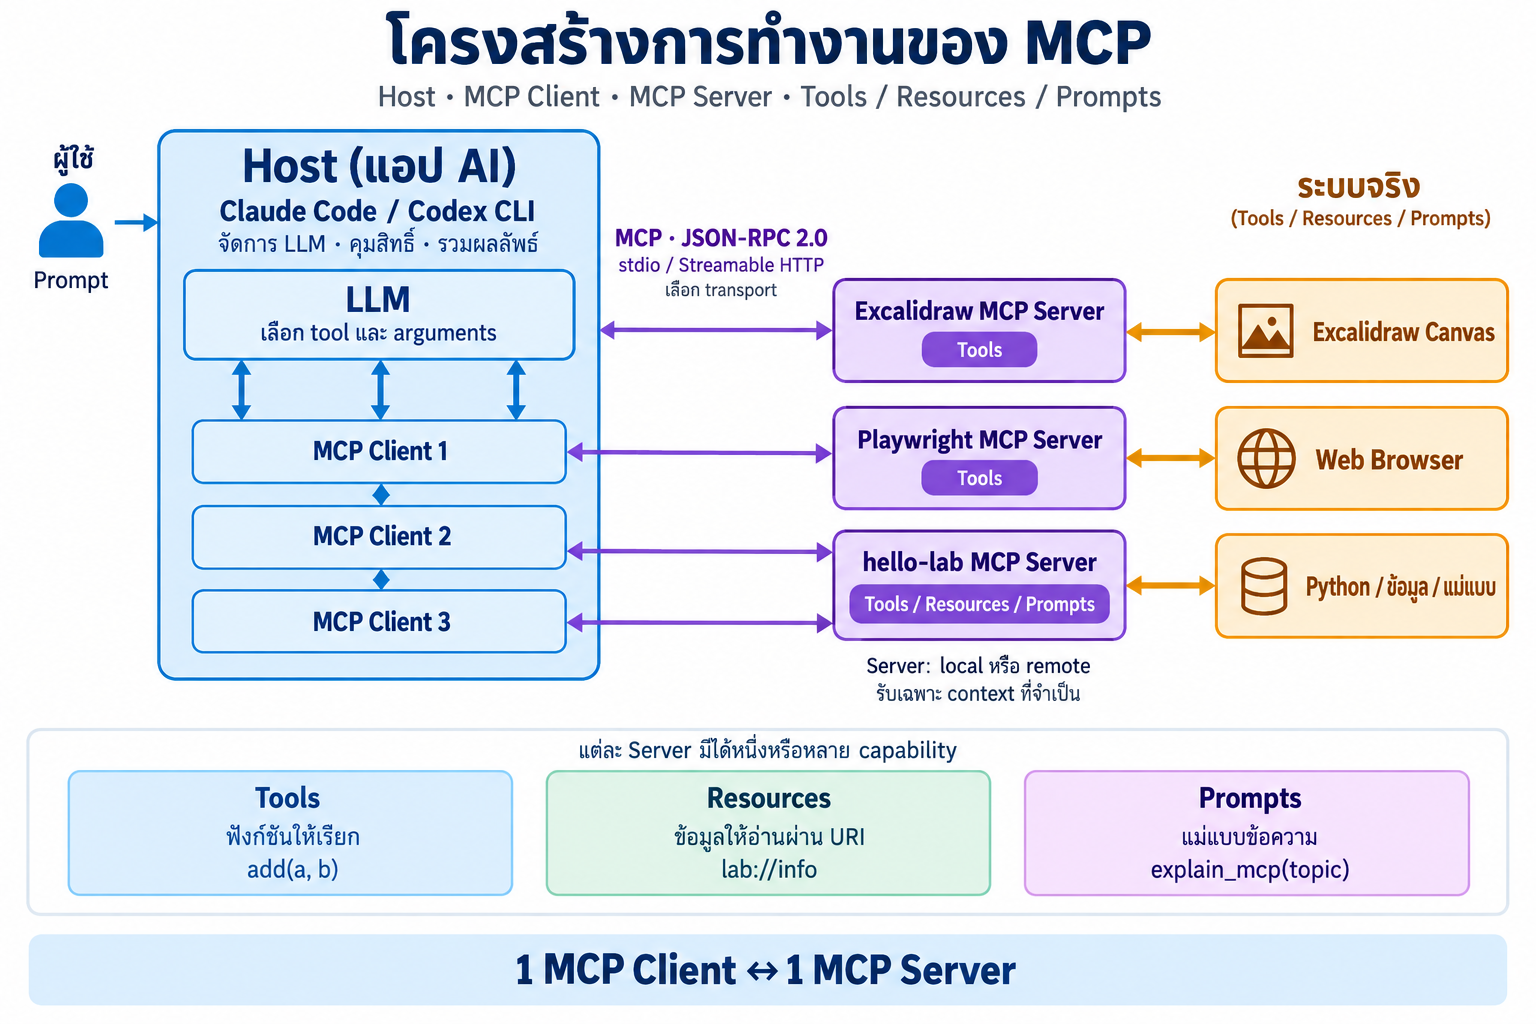
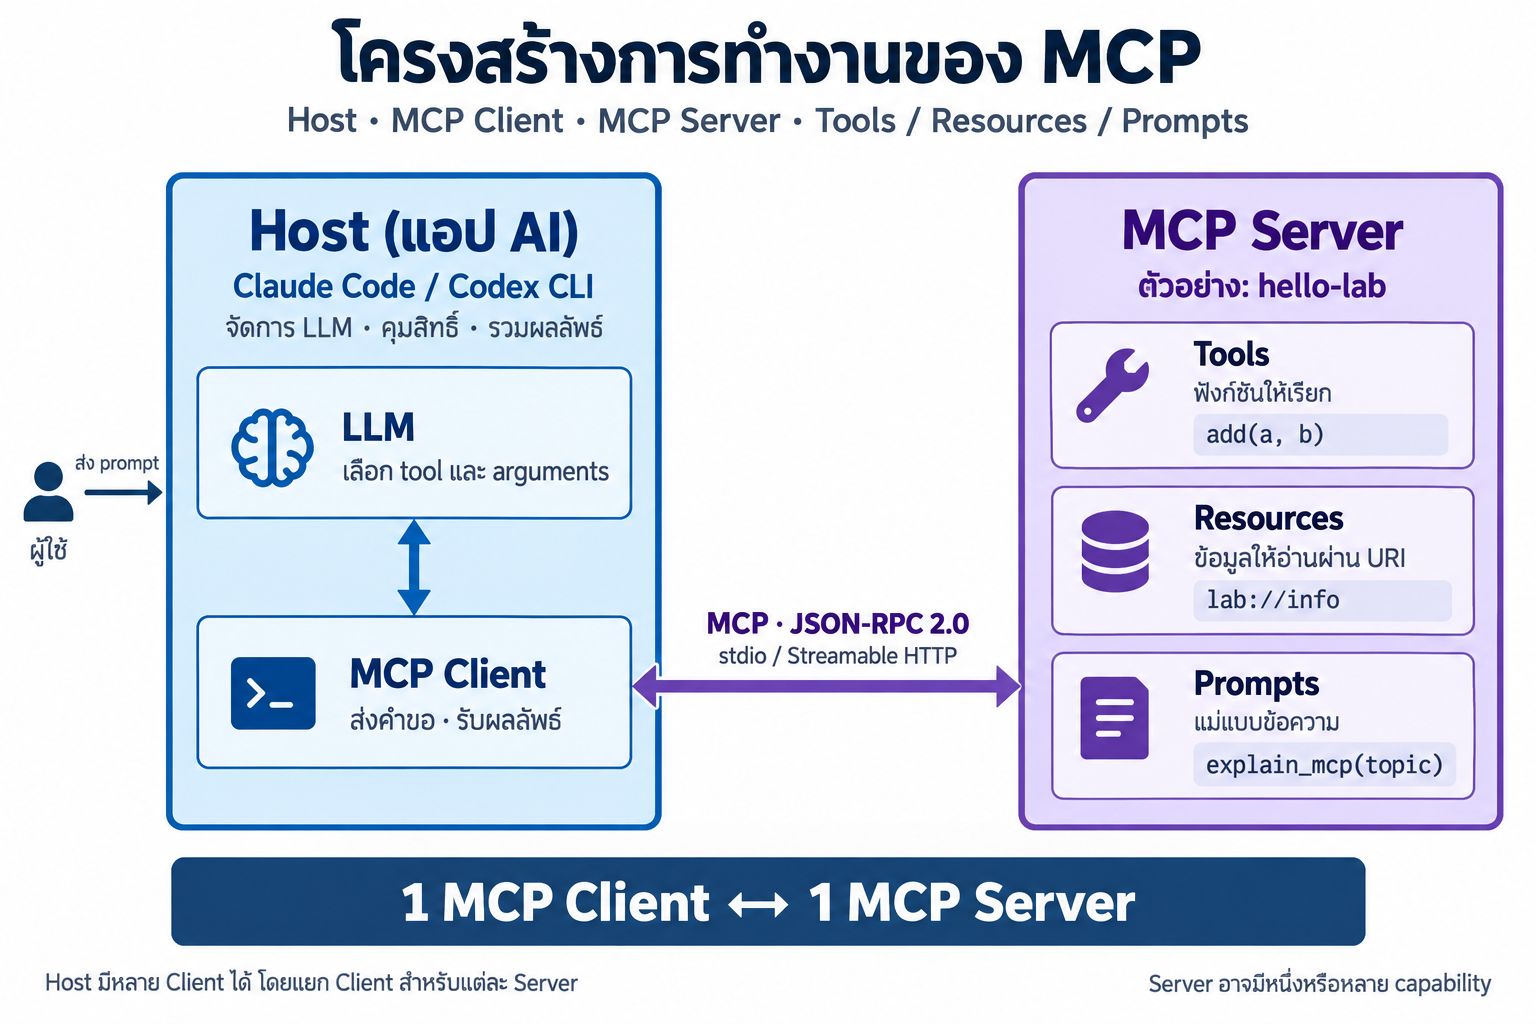
1

diff --git a/01_Multi_Account/001_LAB_Setup_Multi_Account/README.md b/01_Multi_Account/001_LAB_Setup_Multi_Account/README.md
@@ -19,7 +19,7 @@
 ## ขั้นที่ 1 · เตรียมเครื่องมือ (🖥 Terminal + 💬 AI | ~15 นาที)
 
 ### 🎯 เป้าหมายของขั้นนี้
-มี Claude Code เป็น “AI ตัวช่วยตั้งค่า” บนเครื่อง Ubuntu โดยเริ่มจากติดตั้ง Claude Code เพียงตัวเดียว
+ติดตั้ง Claude Code และ Codex CLI บนเครื่อง Ubuntu ให้เรียกดูเวอร์ชันได้ทั้งสองเครื่องมือ แล้วเปิด Claude Code เป็น “AI ตัวช่วยตั้งค่า” สำหรับขั้นที่ 2
 
 ### 1.1 ตรวจว่ามี Claude Code อยู่แล้วหรือไม่ (🖥 Terminal)
 
@@ -27,7 +27,7 @@
 claude --version
 ```
 
-- ได้ตัวเลขเวอร์ชัน → ข้ามไป 1.4
+- ได้ตัวเลขเวอร์ชัน → ข้ามไป 1.3
 - ได้ `command not found` → ทำ 1.2
 
 ### 1.2 ติดตั้ง Claude Code (🖥 Terminal)
@@ -50,7 +50,36 @@ claude --version
 
 ![ผลคำสั่ง claude --version จริงในคอนเทนเนอร์](img/terminal-claude-version.png)
 
-เห็นเลขเวอร์ชันแล้วไปหัวข้อ 1.4 ได้เลย ตัวเลขอาจต่างจากภาพ
+เห็นเลขเวอร์ชันแล้วไปหัวข้อ 1.3 ได้เลย ตัวเลขอาจต่างจากภาพ
+
+### 1.3 ตรวจและติดตั้ง Codex CLI (🖥 Terminal)
+
+**ตรวจว่ามี Codex CLI อยู่แล้วหรือไม่** — พิมพ์คำสั่งนี้ใน Terminal
+
+```bash
+codex --version
+```
+
+- ได้ `codex-cli` ตามด้วยเลขเวอร์ชัน → ข้ามไป 1.4
+- ได้ `command not found` → ติดตั้งด้วยคำสั่งด้านล่าง
+
+**ติดตั้ง Codex CLI** — ใช้ตัวติดตั้งสำหรับ Linux ตาม [เอกสารทางการของ OpenAI](https://learn.chatgpt.com/docs/codex/cli)
+
+```bash
+curl -fsSL https://chatgpt.com/codex/install.sh | sh
+```
+
+รอจนติดตั้งเสร็จ หากตัวติดตั้งแสดงขั้นตอนเพิ่มตำแหน่งโปรแกรมใน `PATH` ให้ทำตามข้อความนั้น แล้วเปิด Terminal ใหม่
+
+**ตรวจเวอร์ชันหลังติดตั้ง**
+
+```bash
+codex --version
+```
+
+ควรเห็น `codex-cli` ตามด้วยเลขเวอร์ชัน เช่น `codex-cli 0.155.1` ตัวเลขอาจต่างจากตัวอย่าง หากยังขึ้น `command not found` ให้ตรวจข้อความเรื่อง `PATH` จากตัวติดตั้งและลองอีกครั้งก่อนทำขั้นถัดไป
+
+ตอนนี้ยังไม่ต้องล็อกอิน Codex ให้ไปหัวข้อ 1.4 เพื่อเปิด Claude Code ตั้งค่าหลายบัญชีในขั้นที่ 2 แล้วจึงล็อกอิน Codex ผ่าน `cyolo1` ในขั้นที่ 3 ส่วน B
 
 ### 1.4 เปิดและล็อกอิน Claude Code เพื่อเตรียมทำขั้นที่ 2
 
@@ -63,26 +92,27 @@ claude --version
 2. ล็อกอินด้วยบัญชีของตัวเองตามคำแนะนำบนหน้าจอ หากยังไม่ได้ล็อกอิน ให้พิมพ์ `/login` ในช่องสนทนา Claude Code แล้วทำตามขั้นตอน
 3. เมื่อพร้อมใช้งาน ให้เปิด Claude Code ค้างไว้ แล้วไปขั้นที่ 2 เพื่อคัดลอกพรอมต์ทั้งกรอบมาวางใน 💬 ช่องสนทนา Claude Code
 
-ขั้นนี้ติดตั้งเฉพาะ Claude Code เพื่อใช้เป็น AI ตัวช่วยตั้งค่าก่อน ส่วนการติดตั้งเครื่องมือที่ยังขาดและตั้งค่าหลายบัญชีของทั้ง Claude Code และ Codex CLI จะให้ AI ดำเนินการในขั้นที่ 2
+เมื่อจบขั้นนี้ ทั้ง Claude Code และ Codex CLI ต้องเรียกดูเวอร์ชันได้ โดยเปิดและล็อกอิน Claude Code ไว้เป็น AI ตัวช่วย ส่วนการสร้างคำสั่งแยกบัญชีของทั้งสองเครื่องมือจะให้ AI ดำเนินการในขั้นที่ 2
 
 ### ✅ Expected Output (ตัวอย่างสำหรับเทียบ — ไม่ใช่ผลการรันจริง)
 | CHECK | ACTUAL EXAMPLE |
 |---|---|
 | `claude --version` | `2.1.258 (Claude Code)` |
+| `codex --version` | `codex-cli 0.155.1` |
 | AI ตัวช่วยตั้งค่า | เปิด Claude Code และล็อกอินพร้อมใช้งานแล้ว |
-- **ต้องตรง:** (1) มีเวอร์ชัน Claude Code (2) เปิด AI ตัวช่วยได้
+- **ต้องตรง:** (1) มีเวอร์ชันทั้ง Claude Code และ Codex CLI (2) เปิด AI ตัวช่วยได้
 - **ต่างได้:** ตัวเลขเวอร์ชัน
 
 ## ขั้นที่ 2 · ให้ Claude Code ตั้งค่าหลายบัญชี (~20 นาที)
 
-ให้ Claude Code ติดตั้งเครื่องมือที่ยังขาดและสร้างคำสั่ง `yolo1`–`yolo5` กับ `cyolo1`–`cyolo5` สำหรับใช้งานหลายบัญชี โดยแยกข้อมูลแต่ละบัญชีและยังไม่ล็อกอินบัญชีเหล่านี้
+ให้ Claude Code ตรวจเครื่องมือที่ติดตั้งจากขั้นที่ 1 และสร้างคำสั่ง `yolo1`–`yolo5` กับ `cyolo1`–`cyolo5` สำหรับใช้งานหลายบัญชี โดยแยกข้อมูลแต่ละบัญชีและยังไม่ล็อกอินบัญชีเหล่านี้
 
 คัดลอกพรอมต์ทั้งกรอบไปวางใน Claude Code ที่เปิดไว้จากขั้นที่ 1
 
 ### 📋 พรอมต์สำหรับคัดลอก (คัดลอกทั้งกรอบ วางใน 💬 ช่องสนทนา AI แล้ว Enter)
 ```text
 สร้าง CLI บน Ubuntu สำหรับรัน Claude Code และ Codex CLI หลายบัญชี
-ตรวจเครื่องมือที่มีอยู่ก่อน และติดตั้งเครื่องมือที่ยังขาด รวมถึง Codex CLI ก่อนตั้งค่าหลายบัญชี
+ตรวจ claude --version และ codex --version ก่อนตั้งค่าหลายบัญชี ใช้เครื่องมือที่ติดตั้งแล้ว หากยังขาดเครื่องมือใดให้ติดตั้งเฉพาะเครื่องมือนั้น
 แยก credential/config กัน 100% ห้ามอ่านไฟล์ README ของ LAB เพื่อหาเฉลย
 
 ## ตัวแปรตั้งค่า (แก้ที่นี่ที่เดียว ที่อื่นต้องอ้างอิงตัวแปรนี้)

diff --git a/03_MCP/01/readme.md b/03_MCP/01/readme.md
@@ -78,7 +78,7 @@ MCP ยังอยู่คนละชั้นกับ LLM และ tool ca
 
 ### 2.1 Host, MCP Client, MCP Server, Tools / Resources / Prompts
 
-![โครงสร้าง MCP บนเครื่องเรียน: Host → MCP Client → MCP Server → เครื่องมือจริง](img/d02-mcp-architecture.png)
+![โครงสร้าง MCP: Host มี LLM และ MCP Client ซึ่งเชื่อมสองทางกับ MCP Server ที่ให้บริการ Tools, Resources และ Prompts](img/d02-mcp-architecture-imagegen.png)
 
 | องค์ประกอบ | หน้าที่ | ตัวอย่างจริงในบทเรียนนี้ |
 | --- | --- | --- |

diff --git a/03_MCP/03/readme.md b/03_MCP/03/readme.md
@@ -1,0 +1,1 @@
+# Test
